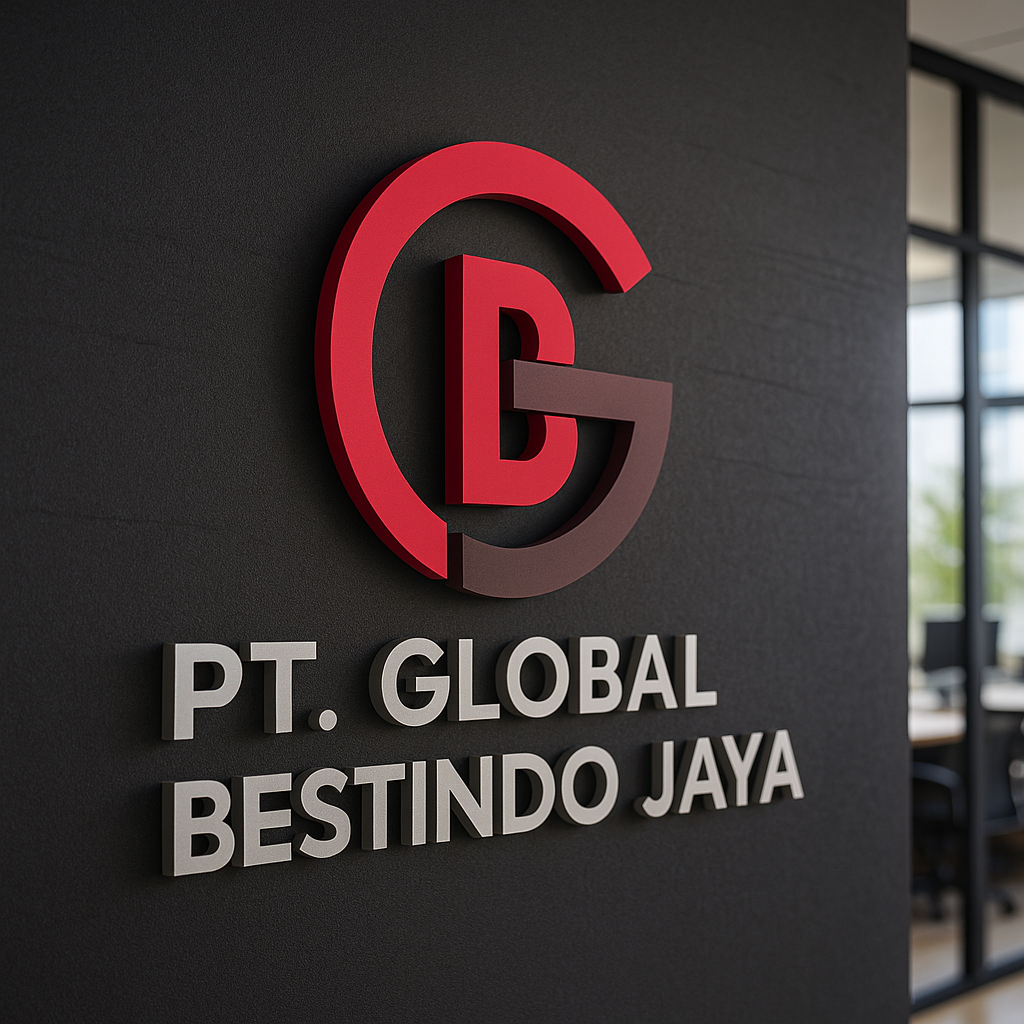
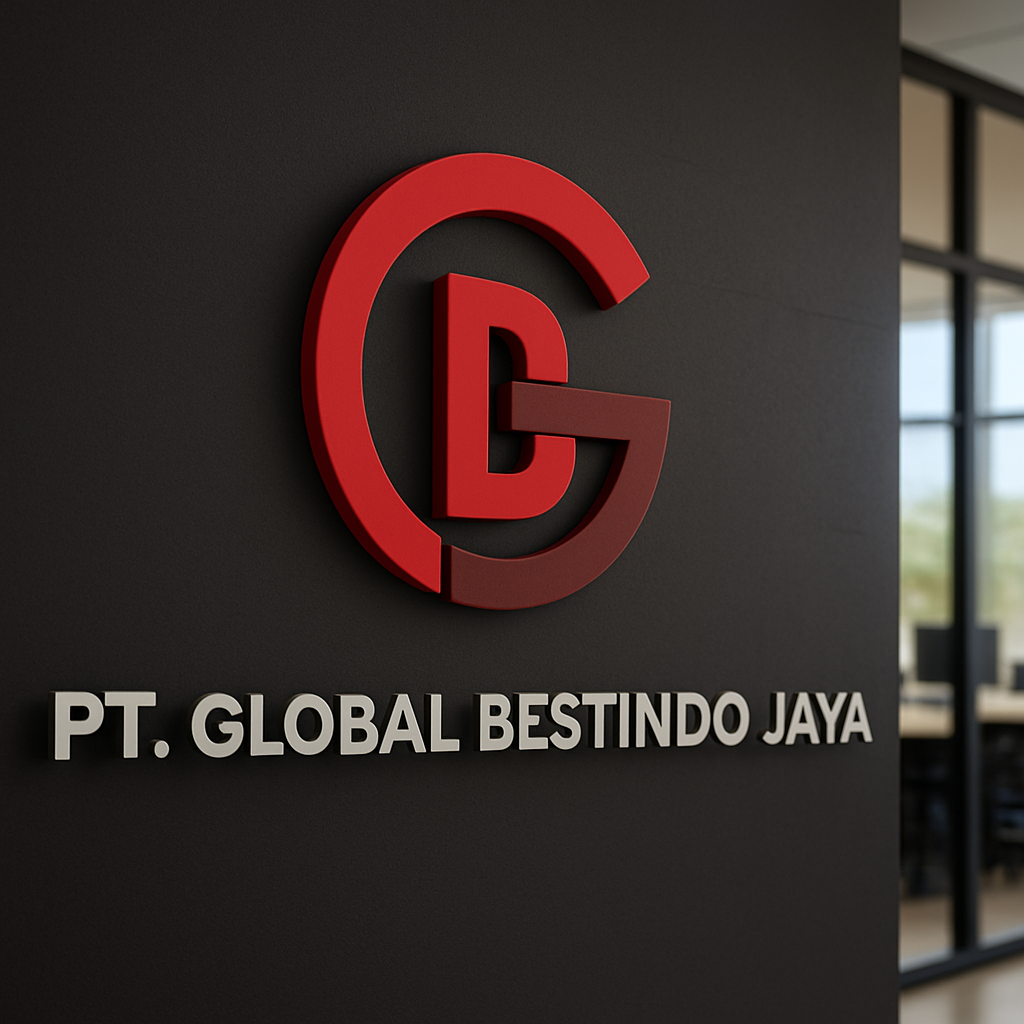
Update: Linkedin Footer, Ubah Gambar Home Page Tulisan digabung

Changed region(s): [[0.0312, 0.0, 1.0, 1.0]]

diff --git a/pages/index.vue b/pages/index.vue
@@ -73,173 +73,153 @@
 
   <section id="about-us" class="relative z-10 bg-[url('asset/bg-repeat.jpg')] bg-repeat py-24 px-4 sm:px-6 lg:px-8">
     <div class="max-w-screen-2xl mx-auto">
-      <div class="text-center mb-12">
-        <h2 class="text-3xl md:text-4xl font-bold text-gray-900">PRODUCT RANGE</h2>
+  <div class="text-center mb-12">
+    <h2 class="text-3xl md:text-4xl font-bold text-gray-900">PRODUCT RANGE</h2>
+  </div>
+
+  <div class="grid grid-cols-1 sm:grid-cols-2 lg:grid-cols-3 gap-6">
+
+    <!-- Reusable Card -->
+    <NuxtLink 
+      to="/produk/door-lock"
+      class="block bg-white rounded-lg shadow-md hover:shadow-lg transition-all duration-300 overflow-hidden group cursor-pointer border border-gray-200"
+    >
+      <div class="h-48 flex justify-center items-center overflow-hidden bg-white">
+        <img 
+          src="/asset/product/Door-Lock.png" 
+          alt="Door Lock" 
+          class="max-h-full object-contain group-hover:scale-105 transition-transform duration-300"
+        />
       </div>
-      
-      <!-- Grid 3 kolom -->
-      <div class="grid grid-cols-1 sm:grid-cols-2 lg:grid-cols-3 gap-6">
-        <!-- Card Door Lock -->
-        <NuxtLink 
-          to="/produk/door-lock"
-          class="block bg-white rounded-lg shadow-md hover:shadow-lg transition-all duration-300 overflow-hidden group cursor-pointer border border-gray-200"
-        >
-          <div class="h-48 overflow-hidden">
-            <img 
-              src="/asset/product/Door-Lock.png" 
-              alt="Door Lock" 
-              class="w-auto h-full object-cover group-hover:scale-105 transition-transform duration-300"
-            />
-          </div>
-          <div class="p-6">
-            <h3 class="text-xl font-semibold text-gray-800 mb-2">Door Lock</h3>
-            <div class="flex justify-between items-center">
-              <span class="text-red-600 font-medium text-sm inline-flex items-center group-hover:underline">
-                View
-              </span>
-              <span class="text-red-600 transform group-hover:translate-x-1 transition-transform">→</span>
-            </div>
-          </div>
-        </NuxtLink>
-
-
-        <!-- Card Patch Fitting -->
-        <NuxtLink 
-          to="/produk/patch-fitting"
-          class="block bg-white rounded-lg shadow-md hover:shadow-lg transition-all duration-300 overflow-hidden group cursor-pointer border border-gray-200"
-        >
-          <div
-            class="bg-white rounded-lg shadow-md hover:shadow-lg transition-all duration-300 overflow-hidden group cursor-pointer border border-gray-200"
-          >
-            <div class="h-48 overflow-hidden">
-              <img 
-                src="/asset/product/patch-fitting.png" 
-                alt="Patch Fitting" 
-                class="w-auto h-full object-cover group-hover:scale-105 transition-transform duration-300"
-              />
-            </div>
-            <div class="p-6">
-              <h3 class="text-xl font-semibold text-gray-800 mb-2">Patch Fitting</h3>
-              <div class="flex justify-between items-center">
-                <a href="#" class="text-red-600 font-medium text-sm inline-flex items-center group-hover:underline">
-                  View
-                </a>
-                <span class="text-red-600 transform group-hover:translate-x-1 transition-transform">→</span>
-              </div>
-            </div>
-          </div>
-        </NuxtLink>
-
-        <!-- Card Sliding Rail -->
-        <NuxtLink 
-          to="/produk/patch-fitting"
-          class="block bg-white rounded-lg shadow-md hover:shadow-lg transition-all duration-300 overflow-hidden group cursor-pointer border border-gray-200"
-        >
-          <div
-            class="bg-white rounded-lg shadow-md hover:shadow-lg transition-all duration-300 overflow-hidden group cursor-pointer border border-gray-200"
-          >
-            <div class="h-48 overflow-hidden">
-              <img 
-                src="/asset/product/sliding-rail.png" 
-                alt="Sliding Rail" 
-                class="w-auto h-full object-cover group-hover:scale-105 transition-transform duration-300"
-              />
-            </div>
-            <div class="p-6">
-              <h3 class="text-xl font-semibold text-gray-800 mb-2">Sliding Rail</h3>
-              <div class="flex justify-between items-center">
-                <a href="#" class="text-red-600 font-medium text-sm inline-flex items-center group-hover:underline">
-                  View
-                </a>
-                <span class="text-red-600 transform group-hover:translate-x-1 transition-transform">→</span>
-              </div>
-            </div>
-          </div>
-        </NuxtLink>
-        
-
-        <!-- Card Aluminium Lock -->
-        <NuxtLink 
-          to="/produk/alumunium-lock"          
-          class="block bg-white rounded-lg shadow-md hover:shadow-lg transition-all duration-300 overflow-hidden group cursor-pointer border border-gray-200"
-        >
-          <div
-            class="bg-white rounded-lg shadow-md hover:shadow-lg transition-all duration-300 overflow-hidden group cursor-pointer border border-gray-200"
-          >
-            <div class="h-48 overflow-hidden">
-              <img 
-                src="/asset/product/alumunium-lock.png" 
-                alt="Aluminium Lock" 
-                class="w-auto h-full object-cover group-hover:scale-105 transition-transform duration-300"
-              />
-            </div>
-            <div class="p-6">
-              <h3 class="text-xl font-semibold text-gray-800 mb-2">Aluminium Lock</h3>
-              <div class="flex justify-between items-center">
-                <a href="#" class="text-red-600 font-medium text-sm inline-flex items-center group-hover:underline">
-                  View
-                </a>
-                <span class="text-red-600 transform group-hover:translate-x-1 transition-transform">→</span>
-              </div>
-            </div>
-          </div>
-        </NuxtLink>
-
-        <!-- Card Roller Caster -->
-        <NuxtLink 
-          to="/produk/roller-caster"
-          class="block bg-white rounded-lg shadow-md hover:shadow-lg transition-all duration-300 overflow-hidden group cursor-pointer border border-gray-200"
-        >
-          <div
-            class="bg-white rounded-lg shadow-md hover:shadow-lg transition-all duration-300 overflow-hidden group cursor-pointer border border-gray-200"
-          >
-            <div class="h-48 overflow-hidden">
-              <img 
-                src="/asset/product/roller-caster.png" 
-                alt="Roller Caster" 
-                class="w-auto h-full object-cover group-hover:scale-105 transition-transform duration-300"
-              />
-            </div>
-            <div class="p-6">
-              <h3 class="text-xl font-semibold text-gray-800 mb-2">Roller Caster</h3>
-              <div class="flex justify-between items-center">
-                <a href="#" class="text-red-600 font-medium text-sm inline-flex items-center group-hover:underline">
-                  View
-                </a>
-                <span class="text-red-600 transform group-hover:translate-x-1 transition-transform">→</span>
-              </div>
-            </div>
-          </div>
-        </NuxtLink>
-
-        <!-- Card Mortise Lock -->
-        <NuxtLink 
-          to="/produk/mortise-lock"
-          class="block bg-white rounded-lg shadow-md hover:shadow-lg transition-all duration-300 overflow-hidden group cursor-pointer border border-gray-200"
-        >
-          <div
-            class="bg-white rounded-lg shadow-md hover:shadow-lg transition-all duration-300 overflow-hidden group cursor-pointer border border-gray-200"
-          >
-            <div class="h-48 overflow-hidden">
-              <img 
-                src="/asset/product/mortise-lock.png" 
-                alt="Mortise Lock" 
-                class="w-auto h-full object-cover group-hover:scale-105 transition-transform duration-300"
-              />
-            </div>
-            <div class="p-6">
-              <h3 class="text-xl font-semibold text-gray-800 mb-2">Mortise Lock</h3>
-              <div class="flex justify-between items-center">
-                <a href="#" class="text-red-600 font-medium text-sm inline-flex items-center group-hover:underline">
-                  View
-                </a>
-                <span class="text-red-600 transform group-hover:translate-x-1 transition-transform">→</span>
-              </div>
-            </div>
-          </div>        
-        </NuxtLink>
+      <div class="p-6">
+        <h3 class="text-xl font-semibold text-gray-800 mb-2">Door Lock</h3>
+        <div class="flex justify-between items-center">
+          <span class="text-red-600 font-medium text-sm inline-flex items-center group-hover:underline">
+            View
+          </span>
+          <span class="text-red-600 transform group-hover:translate-x-1 transition-transform">→</span>
+        </div>
       </div>
-    </div>
+    </NuxtLink>
+
+
+    <NuxtLink 
+      to="/produk/patch-fitting"
+      class="block bg-white rounded-lg shadow-md hover:shadow-lg transition-all duration-300 overflow-hidden group cursor-pointer border border-gray-200"
+    >
+      <div class="h-48 flex justify-center items-center overflow-hidden bg-white">
+        <img 
+          src="/asset/product/patch-fitting.png" 
+          alt="Patch Fitting" 
+          class="max-h-full object-contain group-hover:scale-105 transition-transform duration-300"
+        />
+      </div>
+      <div class="p-6">
+        <h3 class="text-xl font-semibold text-gray-800 mb-2">Patch Fitting</h3>
+        <div class="flex justify-between items-center">
+          <span class="text-red-600 font-medium text-sm inline-flex items-center group-hover:underline">
+            View
+          </span>
+          <span class="text-red-600 transform group-hover:translate-x-1 transition-transform">→</span>
+        </div>
+      </div>
+    </NuxtLink>
+
+
+    <NuxtLink 
+      to="/produk/sliding-rail"
+      class="block bg-white rounded-lg shadow-md hover:shadow-lg transition-all duration-300 overflow-hidden group cursor-pointer border border-gray-200"
+    >
+      <div class="h-48 flex justify-center items-center overflow-hidden bg-white">
+        <img 
+          src="/asset/product/sliding-rail.png" 
+          alt="Sliding Rail" 
+          class="max-h-full object-contain group-hover:scale-105 transition-transform duration-300"
+        />
+      </div>
+      <div class="p-6">
+        <h3 class="text-xl font-semibold text-gray-800 mb-2">Sliding Rail</h3>
+        <div class="flex justify-between items-center">
+          <span class="text-red-600 font-medium text-sm inline-flex items-center group-hover:underline">
+            View
+          </span>
+          <span class="text-red-600 transform group-hover:translate-x-1 transition-transform">→</span>
+        </div>
+      </div>
+    </NuxtLink>
+
+
+    <NuxtLink 
+      to="/produk/alumunium-lock"
+      class="block bg-white rounded-lg shadow-md hover:shadow-lg transition-all duration-300 overflow-hidden group cursor-pointer border border-gray-200"
+    >
+      <div class="h-48 flex justify-center items-center overflow-hidden bg-white">
+        <img 
+          src="/asset/product/alumunium-lock.png" 
+          alt="Aluminium Lock" 
+          class="max-h-full object-contain group-hover:scale-105 transition-transform duration-300"
+        />
+      </div>
+      <div class="p-6">
+        <h3 class="text-xl font-semibold text-gray-800 mb-2">Aluminium Lock</h3>
+        <div class="flex justify-between items-center">
+          <span class="text-red-600 font-medium text-sm inline-flex items-center group-hover:underline">
+            View
+          </span>
+          <span class="text-red-600 transform group-hover:translate-x-1 transition-transform">→</span>
+        </div>
+      </div>
+    </NuxtLink>
+
+
+    <NuxtLink 
+      to="/produk/roller-caster"
+      class="block bg-white rounded-lg shadow-md hover:shadow-lg transition-all duration-300 overflow-hidden group cursor-pointer border border-gray-200"
+    >
+      <div class="h-48 flex justify-center items-center overflow-hidden bg-white">
+        <img 
+          src="/asset/product/roller-caster.png" 
+          alt="Roller Caster" 
+          class="max-h-full object-contain group-hover:scale-105 transition-transform duration-300"
+        />
+      </div>
+      <div class="p-6">
+        <h3 class="text-xl font-semibold text-gray-800 mb-2">Roller Caster</h3>
+        <div class="flex justify-between items-center">
+          <span class="text-red-600 font-medium text-sm inline-flex items-center group-hover:underline">
+            View
+          </span>
+          <span class="text-red-600 transform group-hover:translate-x-1 transition-transform">→</span>
+        </div>
+      </div>
+    </NuxtLink>
+
+
+    <NuxtLink 
+      to="/produk/mortise-lock"
+      class="block bg-white rounded-lg shadow-md hover:shadow-lg transition-all duration-300 overflow-hidden group cursor-pointer border border-gray-200"
+    >
+      <div class="h-48 flex justify-center items-center overflow-hidden bg-white">
+        <img 
+          src="/asset/product/mortise-lock.png" 
+          alt="Mortise Lock" 
+          class="max-h-full object-contain group-hover:scale-105 transition-transform duration-300"
+        />
+      </div>
+      <div class="p-6">
+        <h3 class="text-xl font-semibold text-gray-800 mb-2">Mortise Lock</h3>
+        <div class="flex justify-between items-center">
+          <span class="text-red-600 font-medium text-sm inline-flex items-center group-hover:underline">
+            View
+          </span>
+          <span class="text-red-600 transform group-hover:translate-x-1 transition-transform">→</span>
+        </div>
+      </div>
+    </NuxtLink>
+
+  </div>
+</div>
+
   </section>
 
   <!-- Penjelasan GBJ -->
@@ -411,10 +391,10 @@
       <!-- Text + Form -->
       <FadeInOnScroll direction="up">
         <div class="order-2 md:order-1 pb-16 md:py-24">
-          <h2 class="text-3xl md:text-4xl font-bold mb-4 md:text-white text-red-900 mt-10 md:mt-0">
+          <h2 class="text-3xl md:text-4xl font-bold mb-4 md:text-white text-red-600 mt-10 md:mt-0">
             Kami senang bisa terhubung dengan Anda.
           </h2>
-          <p class="mb-8 text-gray-300">
+          <p class="mb-8 text-white md:text-gray-300">
             Hubungi kami untuk informasi lebih lanjut mengenai produk, layanan, atau peluang kemitraan. Tim kami akan merespons dengan cepat dan memberikan solusi terbaik untuk kebutuhan Anda.
           </p>
 
@@ -432,8 +412,12 @@
               bg-cover bg-center 
               px-6 py-3 
               rounded-full 
-              transition 
-              mx-1 my-1">
+              transition
+              duration-300
+              hover:scale-105
+              hover:brightness-110
+              mx-1 my-1
+            ">
             Go to Contact Form
           </NuxtLink>
           </div>

diff --git a/components/footer.vue b/components/footer.vue
@@ -19,7 +19,7 @@
           </a>
 
           <!-- NEW LinkedIn Icon -->
-          <a href="#" target="_blank" rel="noopener noreferrer" class="p-2 border border-black rounded hover:bg-red-600 transition">
+          <a href="https://www.linkedin.com/company/pt-global-bestindo-jaya/" target="_blank" rel="noopener noreferrer" class="p-2 border border-black rounded hover:bg-red-600 transition">
             <svg fill="#000000" viewBox="0 0 256 256" class="w-6 h-6" xmlns="http://www.w3.org/2000/svg">
               <path d="M96,80a8,8,0,1,1-8-8A7.99993,7.99993,0,0,1,96,80Zm-8,28.001a4,4,0,0,0-4,4v64a4,4,0,1,0,8,0v-64A4,4,0,0,0,88,108.001Zm60,0a31.92463,31.92463,0,0,0-24,10.86767V112.001a4,4,0,0,0-8,0v64a4,4,0,1,0,8,0v-36a24,24,0,0,1,48,0v36a4,4,0,1,0,8,0v-36A32.03619,32.03619,0,0,0,148,108.001ZM224,44V212a12.01375,12.01375,0,0,1-12,12H44a12.01375,12.01375,0,0,1-12-12V44A12.01359,12.01359,0,0,1,44,32H212A12.01359,12.01359,0,0,1,224,44Zm-8,0a4.00458,4.00458,0,0,0-4-4H44a4.00458,4.00458,0,0,0-4,4V212a4.00458,4.00458,0,0,0,4,4H212a4.00458,4.00458,0,0,0,4-4Z"/>
             </svg>
